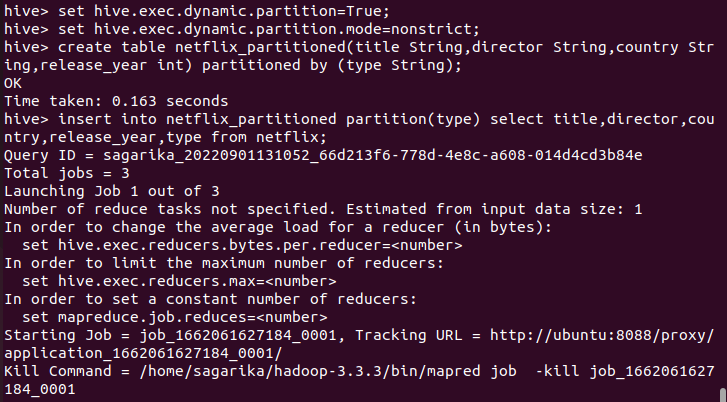
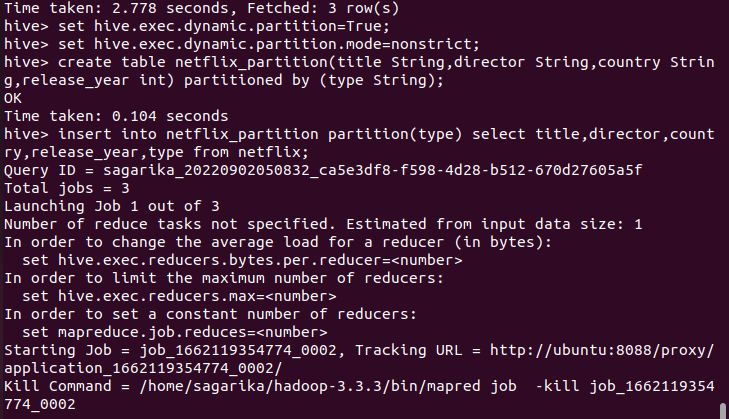
2 tasks completed

Changed region(s): [[0.0, 0.0, 0.9986, 1.0], [0.9684, 0.9552, 0.9986, 1.0]]

diff --git a/README.md b/README.md
@@ -8,7 +8,7 @@ First provide both the shell scripts the necessary permissions
 chmod +x *.sh 
 ```
 
-To install hive run the following command:
+To install hive run the following command ,if hive is launched your installation is successfull:
 
 ```bash
 ./install-hive.sh
@@ -95,6 +95,9 @@ insert into netflix_partition partition(type) select title,director,country,rele
 
 ![3a.png](./screenshot/3a.png)
 
+![3a1.png](./screenshot/3a1.png)
+
+
 To check the partitions stored in hadoop data warehouse:
 
 ```bash
@@ -114,11 +117,18 @@ The command below allows the correct number of reducers and the cluster by colum
 set hive.enforce.bucketing=True;
 ```
 
-Create bucketing on country column on top of partitioning by type:
+Create bucketing on country column on top of partitioning by type and insert data:
 
 ```bash
-CREATE TABLE netflix_bucket(title String,director String) PARTITIONED BY(type String) CLUSTERED BY country INTO 10 BUCKETS
+CREATE TABLE netflix_bucket(title String,director String,country String) PARTITIONED BY(type String) CLUSTERED BY (country) INTO 10 BUCKETS;
+insert into table netflix_bucket partition(type='Movie') select title,director,country from netflix where type='Movie';
 ```
+![5a1.png](./screenshot/5a1.png)
+
+![5a2.png](./screenshot/5a2.png)
+
+![5a3.png](./screenshot/5a3.png)
+
 To check the buckets stored in hadoop data warehouse:
 
 ```bash
@@ -126,7 +136,7 @@ cd
 hdfs dfs -ls /user/hive/warehouse/{PATH}
 ```
 
-![5a.png](./screenshot/5a.png)
+![5a4.png](./screenshot/5a4.png)
 
 ## TASK 2- HQL Map Join and Normal Join
 
@@ -157,8 +167,8 @@ Download the dataset "customers.csv" and "orders.csv" provided in the <a href="h
 Similar to Task1 create tables and load data into the created tables.
 
 ```bash
-create table customers(customer_id int,initals String,street String,country String);
-create table orders(customer_id int,order_id int,order_date date,total_cost int);
+create table customers(customer_id String,initals String,street String,country String);
+create table orders(customer_id String,order_id String,order_date date,total_cost int);
 ```
 
 
